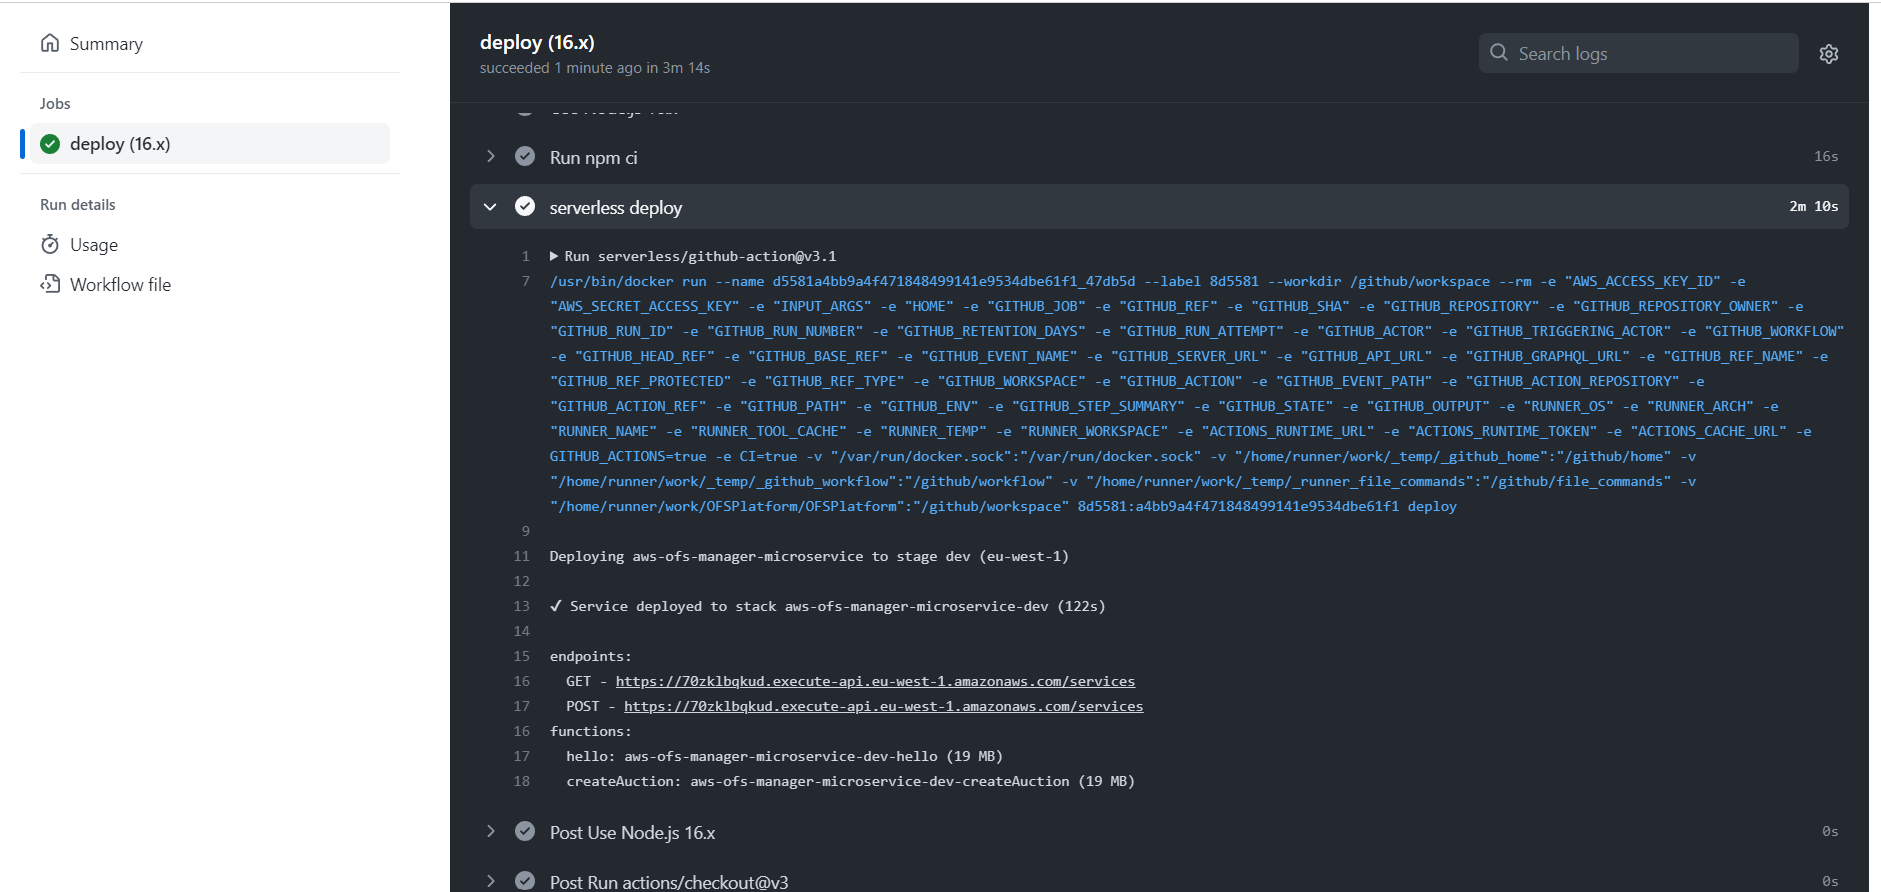
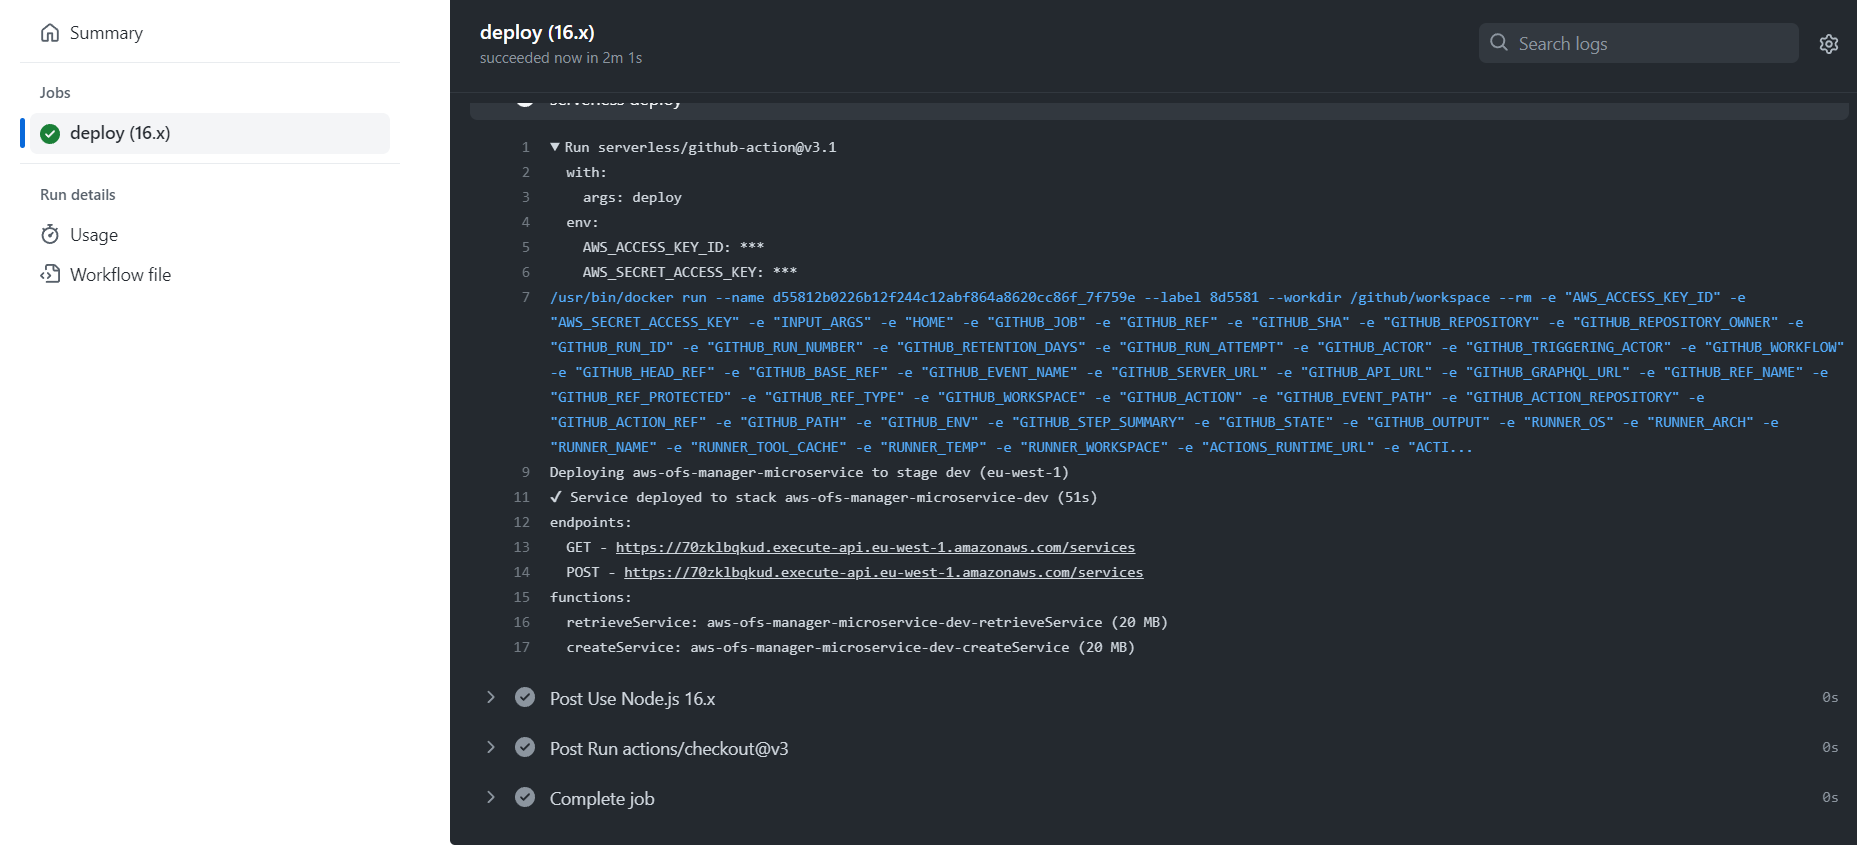
decomposing service manager into 3 microservices, vertical added

diff --git a/src/aws-ofs-verticals-microservice/src/handlers/getVerticalByID.js b/src/aws-ofs-verticals-microservice/src/handlers/getVerticalByID.js
@@ -1,0 +1,21 @@
+
+import AWS from 'aws-sdk';
+
+const dynamodb = new AWS.DynamoDB.DocumentClient();
+
+async function getVerticalByID(event, context) {
+    let verticals;
+    const {id} = event.pathParameters;
+    const results = await dynamodb.get({
+        TableName: process.env.VERTICALS_TABLE_NAME,
+        Key: {id},
+    }).promise();
+    verticals = results.Item;
+
+    return {
+        statusCode: 200,
+        body: JSON.stringify({ verticals }),
+    };
+}
+  
+  export const handler = getVerticalByID

diff --git a/src/aws-ofs-verticals-microservice/src/handlers/createVertical.js b/src/aws-ofs-verticals-microservice/src/handlers/createVertical.js
@@ -1,0 +1,22 @@
+import { v4 as uuid} from 'uuid';
+import AWS from 'aws-sdk';
+const dynamodb = new AWS.DynamoDB.DocumentClient();
+
+async function createVertical(event, context) {
+
+    const {name} = JSON.parse(event.body)
+    const now = new Date();
+
+    const newVertical = {
+        id: uuid(),
+        createdAt: now.toISOString(),
+        name:name,
+    }
+
+    return {
+      statusCode: 201,
+      body: JSON.stringify({ newVertical }),
+    };
+  }
+  
+  export const handler = createVertical;

diff --git a/src/aws-ofs-verticals-microservice/src/handlers/retrieveVertical.js b/src/aws-ofs-verticals-microservice/src/handlers/retrieveVertical.js
@@ -1,0 +1,21 @@
+
+import AWS from 'aws-sdk';
+
+const dynamodb = new AWS.DynamoDB.DocumentClient();
+
+async function retrieveVertical(event, context) {
+    let verticals;
+
+
+    const results = await dynamodb.scan({
+            TableName: process.env.VERTICALS_TABLE_NAME,
+        }).promise();
+    verticals = results.Items;
+
+    return {
+      statusCode: 200,
+      body: JSON.stringify({ verticals }),
+    };
+}
+  
+  export const handler = retrieveVertical
